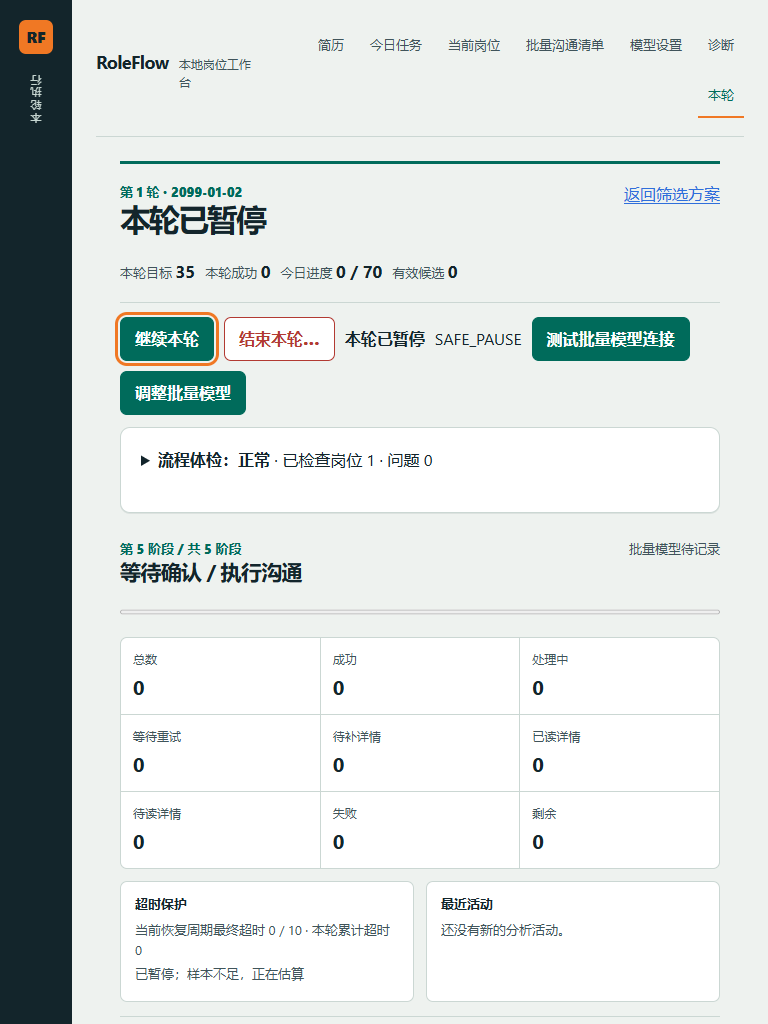
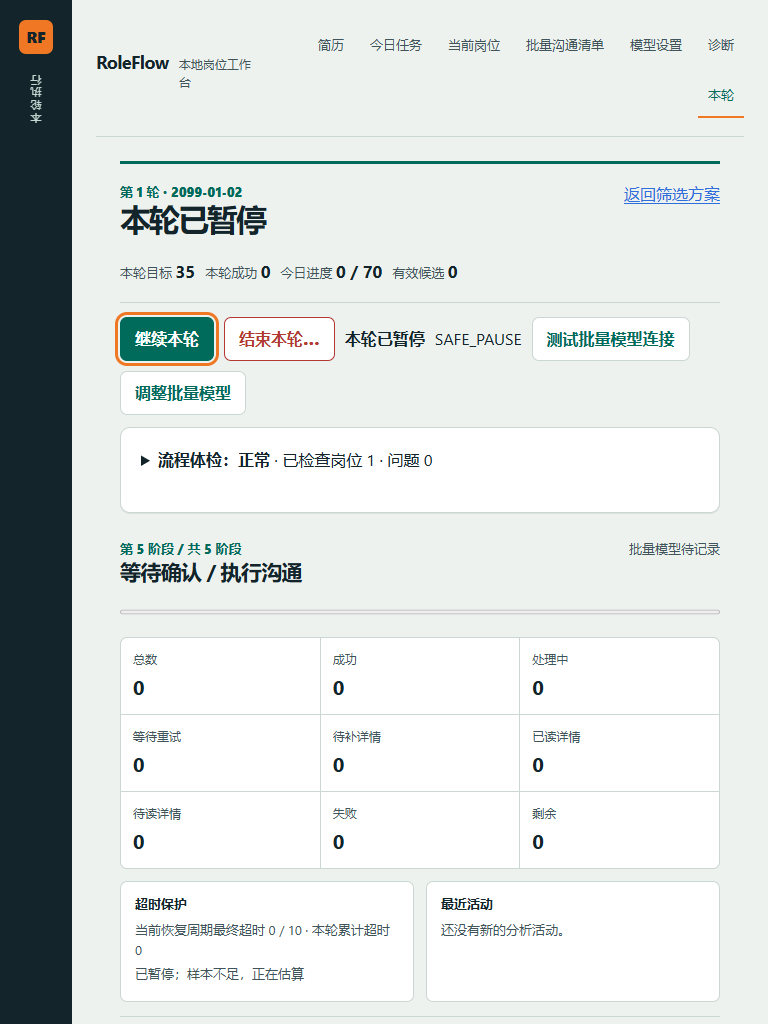
docs: refresh workflow dashboard evidence

Changed region(s): [[0.6875, 0.3125, 0.9062, 0.375], [0.1562, 0.3438, 0.3438, 0.4062]]

diff --git a/docs/superpowers/reports/2026-08-11-workflow-dashboard-effect-evaluation.md b/docs/superpowers/reports/2026-08-11-workflow-dashboard-effect-evaluation.md
@@ -1,42 +1,33 @@
-# Workflow 页面最终效果评估
+# Task 2.3 Workflow dashboard effect evaluation
 
-## 结论
+Code-fix commit: `46525282bb1cb8a0db28fcc7f1f236544e0fff35`.
 
-`/workflow` 的页面层现在按 phase 明确渲染 primary 操作，不再对完整 HTML 做全局字符串替换。每个渲染状态恰有一个可见的 `data-workflow-primary="true"`：scanning 为暂停、paused 为继续、review 为确认清单，其他结束/沟通状态也各自只有一个恢复或查看操作。
+The workflow client now transfers the unique `data-workflow-primary="true"` marker and focus between pause and resume during polling. The strict evaluator rejects both visible and hidden duplicates. Paused model settings links use the secondary white, bordered treatment; the primary command remains solid teal independently of its orange focus outline.
 
-scanning 与 paused 的真实 pause/resume 表单位于 workflow header 之后、scope/health/metric details 之前。review 的真实确认表单位于 header 后且在岗位列表之前；候选列表没有删减。客户端控件查询覆盖整个 workflow page，因此移动后的 pause/resume/stop-preview/cancel 与轮询 fail-closed 状态仍生效。
+## Canonical evidence
 
-## 严格浏览器评估
+`docs/superpowers/reports/evidence/2026-08-11-workflow-dashboard/` contains exactly:
 
-最终 evaluator 位于 `scripts/evaluate-workflow-dashboard.js`，使用隔离 SQLite、`forceMock` readiness 和 headless Edge；不访问真实 BOSS、沟通、网络模型或外部平台。
+- `baseline/`: 16 PNG files and `baseline.json`, generated by the final evaluator against detached `8fedac5b8dddfe5e647c771d9993ba8221f5e1a6`.
+- `current/`: 16 PNG files and `current.json`, generated by the same evaluator with `--expect-primary` against clean code commit `46525282bb1cb8a0db28fcc7f1f236544e0fff35`.
 
-- [baseline JSON](evidence/2026-08-11-workflow-dashboard/baseline/baseline.json) 由最终 evaluator 针对 detached `8fedac5b8dddfe5e647c771d9993ba8221f5e1a6` 生成。
-- [current JSON](evidence/2026-08-11-workflow-dashboard/current/current.json) 由同一 evaluator 针对干净 code-fix `b49a43023f0f604f7bd622b0ce8515944cfa3044` 生成，启用 `--expect-primary`。
-- 两个目录各含 16 张 PNG（scanning、paused、review_required、interrupted × 1440×900、1024×768、768×1024、375×812）和一份 JSON，没有混入旧 artifact。
+The current JSON records 16/16 pages with `primaryCount=1`, `visiblePrimaryCount=1`, primary focus, solid outline, initial-viewport visibility, successful structured interaction, and no captured console/page/request/external errors. The baseline records `primaryCount=0` for all 16 historical pages and is intentionally non-strict.
 
-current JSON 的 16/16 页面均记录：`visiblePrimaryCount=1`、primary 完整位于初始 viewport、键盘 focus 为真、outline style 为 `solid`、无水平溢出、reduced-motion 为真、console/page/request/external errors 均为空。截图和这些首屏审计在 stop/review 交互之前、`scrollTo(0, 0)` 之后完成；交互结果随后以结构化字段保存。
+I inspected the 375x812 current paused and scanning screenshots plus the baseline paused screenshot. The current paused page clearly shows the teal `继续本轮` primary and two white secondary model-setting links even without treating the orange focus outline as the hierarchy signal.
 
-baseline 保留非严格对照结果：其 16 页没有新 primary marker。这是 `8fedac5` 的已测量旧行为，而不是 current 的验收依据。
+## Offline verification
 
-## 验证
-
-使用既有 `NODE_PATH`/worktree junction，未安装或更新依赖：
+Use the existing bundled runtime dependency path; do not install dependencies:
 
 ```powershell
+$env:NODE_PATH='C:\Users\Administrator\.cache\codex-runtimes\codex-primary-runtime\dependencies\node\node_modules'
 $env:ROLEFLOW_REQUIRE_PLAYWRIGHT='1'
-node tests/workflow_dashboard_smoke.js
-node tests/workflow_progress_smoke.js
-node tests/workflow_control_smoke.js
-node tests/workflow_recovery_smoke.js
-node tests/workflow_communication_smoke.js
-node tests/dashboard_shell_smoke.js
 node tests/workflow_page_migration_smoke.js
-git diff --check
 node tests/run_all.js
 ```
 
-focused tests 均输出 `ok`；`workflow_page_migration_smoke` 实际执行严格 evaluator；完整离线套件输出 `All 80 offline checks passed.`。
+Focused Playwright workflow regression passed. It covers scanning -> paused -> scanning polling, asserting total primary count 1, visible count 1, no hidden marker, and a focusable/enabled resume command. It also directly exercises the evaluator's fail-closed duplicate-primary gate. The full suite ended with `All 80 offline checks passed.`
 
-## 边界
+Without `NODE_PATH`, the strict evaluator correctly fails closed before evaluation with `Error: Cannot find module 'playwright'` (`MODULE_NOT_FOUND`). The explicit command above is therefore a test prerequisite, not an installation instruction.
 
-本次只改 workflow renderer、浏览器 asset、浏览器 smoke 和 evaluator。未改 core/storage/CLI/adapters/BOSS/communication executor/matching，也未执行真实 BOSS、沟通或应用操作。
+No real BOSS page, model, communication, or network action was used.
